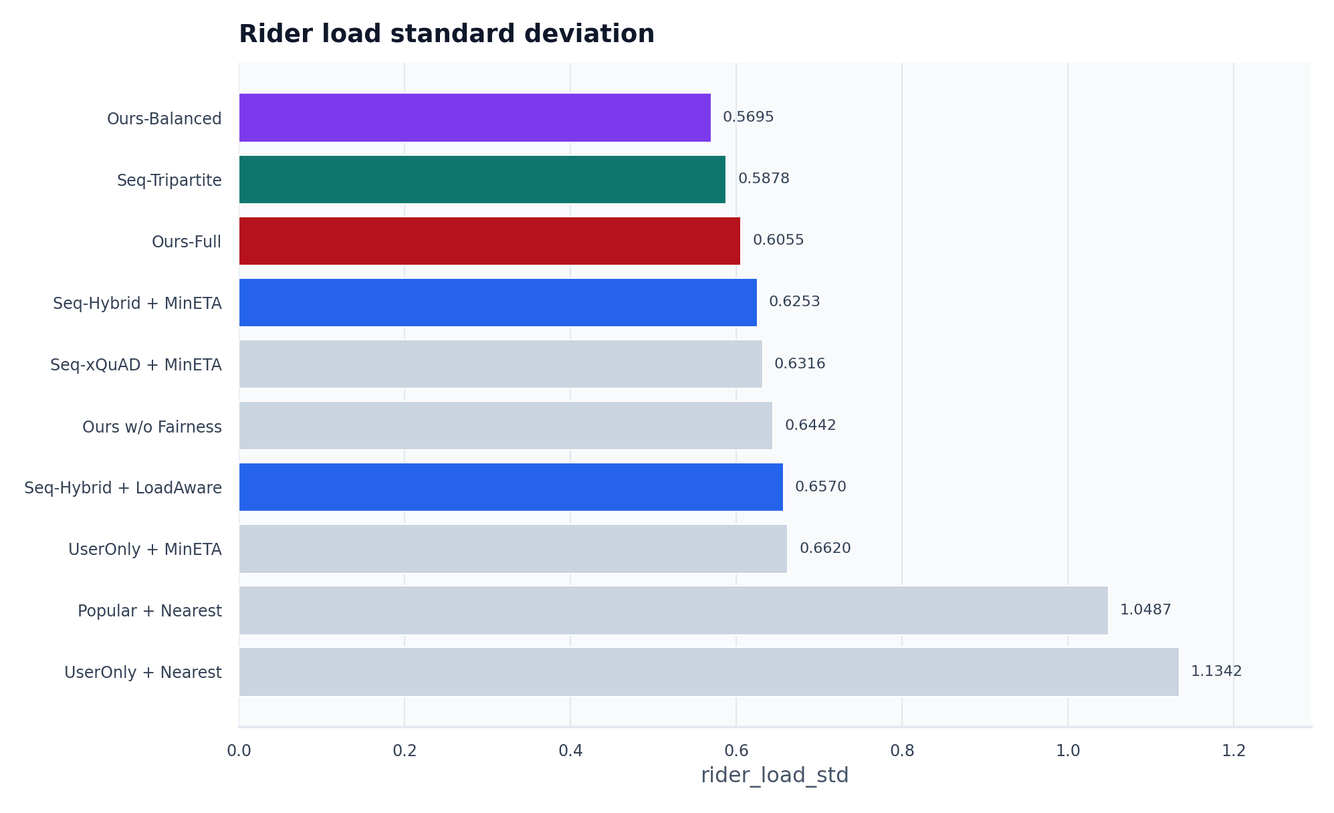
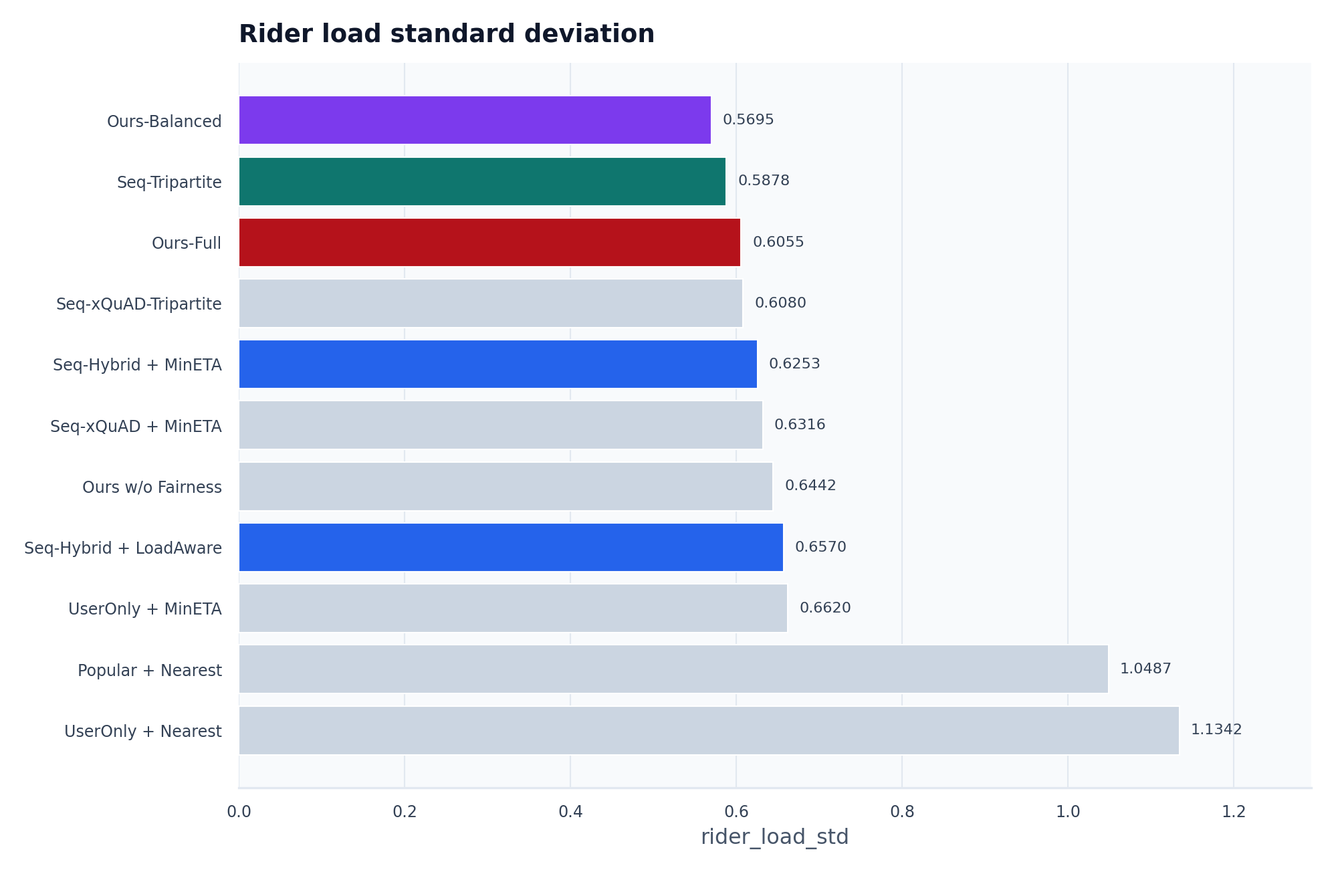
Add xQuAD tripartite bridge

diff --git a/foodflow/report.py b/foodflow/report.py
@@ -102,23 +102,23 @@ def build_report(
 
 ## 3. 方法设计
 
-实现的推荐策略包括 Random、Popular、Repeat、ItemCF、BPR-MF、UserOnly、Seq-Hybrid、Seq-xQuAD、Seq-Tripartite 和 Ours-Full。Random 和 Popular 是基础对照；Repeat 反映外卖复购特征；ItemCF 和 BPR-MF 是传统协同过滤基线；UserOnly 使用品类、复购、价格、时段和商家质量；Seq-Hybrid 借鉴 FPMC/下一篮子推荐和会话推荐思想，加入最近订单时间衰减、复购频率和商家转移概率；Seq-xQuAD 在序列相关性基础上做列表级多样性与长尾曝光重排；Seq-Tripartite 在序列偏好底座上轻量加入公平、ETA 和供给约束；Ours-Full 在 UserOnly 上加入商家曝光公平、ETA 和供给分。
+实现的推荐策略包括 Random、Popular、Repeat、ItemCF、BPR-MF、UserOnly、Seq-Hybrid、Seq-xQuAD、Seq-Tripartite、Seq-xQuAD-Tripartite 和 Ours-Full。Random 和 Popular 是基础对照；Repeat 反映外卖复购特征；ItemCF 和 BPR-MF 是传统协同过滤基线；UserOnly 使用品类、复购、价格、时段和商家质量；Seq-Hybrid 借鉴 FPMC/下一篮子推荐和会话推荐思想，加入最近订单时间衰减、复购频率和商家转移概率；Seq-xQuAD 在序列相关性基础上做列表级多样性与长尾曝光重排；Seq-Tripartite 在序列偏好底座上轻量加入公平、ETA 和供给约束；Seq-xQuAD-Tripartite 把列表级覆盖和三方履约约束合到同一个重排器；Ours-Full 在 UserOnly 上加入商家曝光公平、ETA 和供给分。
 
-为增强“不是只给一个手调模型”的可信度，系统还支持 Ours-Balanced，它提高用户偏好权重，同时保留 ETA 与供给约束，用于观察准确性和履约指标之间的权衡。答辩时可以把 Seq-Hybrid、Seq-xQuAD、Seq-Tripartite、Ours-Balanced 和 Ours-Full 作为一条多目标权衡链路：先用序列复购模型把离线准确性拉高，再用列表级重排扩大覆盖，最后展示三方重排如何换取更好的履约与平台效用。
+为增强“不是只给一个手调模型”的可信度，系统还支持 Ours-Balanced，它提高用户偏好权重，同时保留 ETA 与供给约束，用于观察准确性和履约指标之间的权衡。答辩时可以把 Seq-Hybrid、Seq-xQuAD、Seq-xQuAD-Tripartite 和 Ours-Full 作为一条多目标权衡链路：先用序列复购模型把离线准确性拉高，再用列表级重排扩大覆盖，最后把三方履约约束接进去换取更高平台效用。
 
-三方仿真包括 Popular + Nearest、UserOnly + Nearest、UserOnly + MinETA、Seq-Hybrid + MinETA、Seq-xQuAD + MinETA、Seq-Hybrid + LoadAware、Seq-Tripartite、Ours-Balanced、Ours w/o Fairness 和 Ours-Full。每轮模拟午餐高峰的一批用户请求，推荐列表经过选择模型产生订单，再由最近骑手、最小 ETA 或负载感知策略派单。
+三方仿真包括 Popular + Nearest、UserOnly + Nearest、UserOnly + MinETA、Seq-Hybrid + MinETA、Seq-xQuAD + MinETA、Seq-Hybrid + LoadAware、Seq-Tripartite、Seq-xQuAD-Tripartite、Ours-Balanced、Ours w/o Fairness 和 Ours-Full。每轮模拟午餐高峰的一批用户请求，推荐列表经过选择模型产生订单，再由最近骑手、最小 ETA 或负载感知策略派单。
 
 ## 4. 离线推荐结果
 
 {offline_table}
 
-推荐侧指标使用 Recall@K、NDCG@K、MRR@K 和 HitRate@K；商家侧指标使用 Coverage、Long-tail Exposure 和 Exposure Gini。这样既能看推荐是否命中真实下单，也能看曝光是否过度集中。全量 TRD 结果中，Seq-xQuAD 的 Recall@20、NDCG@20、MRR@20 和 HitRate@20 最高，说明外卖推荐既受最近订单和复购序列影响，也能从列表级多样性重排中获益；Seq-Tripartite 的 NDCG@20 和 HitRate@20 高于 UserOnly，同时保持更低曝光 Gini；Ours-Balanced 和 Ours-Full 离线准确率较低，但引入了履约和供给约束，因此后续需要结合仿真指标判断。
+推荐侧指标使用 Recall@K、NDCG@K、MRR@K 和 HitRate@K；商家侧指标使用 Coverage、Long-tail Exposure 和 Exposure Gini。这样既能看推荐是否命中真实下单，也能看曝光是否过度集中。全量 TRD 结果中，Seq-xQuAD 的 Recall@20、NDCG@20、MRR@20 和 HitRate@20 最高，说明外卖推荐既受最近订单和复购序列影响，也能从列表级多样性重排中获益；Seq-xQuAD-Tripartite 的离线准确性低于纯 Seq-xQuAD，但 Exposure Gini 更低，并且 NDCG@20 仍略高于 UserOnly；Ours-Balanced 和 Ours-Full 离线准确率较低，但引入了履约和供给约束，因此后续需要结合仿真指标判断。
 
 ## 5. 动态履约仿真结果
 
 {simulation_table}
 
-履约侧指标包括完成订单数、平均 ETA、超时率、骑手负载标准差和平台综合效用。Ours-Full 的目标不是所有单项指标都最大，而是在准确性、公平性和履约可行性之间取得更适合外卖平台的折中。全量 TRD 仿真中，Seq-xQuAD 提升了离线推荐准确性，但进入派单后平台效用不一定最高；Seq-Tripartite 在序列准确性和履约约束之间取得折中；Ours-Full 则取得最高平台效用和更低超时率，说明推荐策略进入履约链路后不能只看离线命中。
+履约侧指标包括完成订单数、平均 ETA、超时率、骑手负载标准差和平台综合效用。多目标推荐的目标不是所有单项指标都最大，而是在准确性、公平性和履约可行性之间取得更适合外卖平台的折中。全量 TRD 仿真中，Seq-xQuAD 提升了离线推荐准确性，但进入派单后平台效用不一定最高；Seq-xQuAD-Tripartite 取得当前最高平台效用、最低平均 ETA 和最低超时率，说明把列表级重排与三方履约约束结合，比单独追求离线命中更适合外卖平台场景。
 
 ## 6. 图表展示
 
@@ -126,7 +126,7 @@ def build_report(
 
 ## 7. 结论与局限
 
-FoodFlow 的答辩故事可以概括为三步：第一，公开外卖订单数据上的推荐实验证明模型不是随机的，并用 Seq-xQuAD 把离线排序指标继续推高；第二，显式加入商家曝光、长尾曝光和 Gini 指标，让推荐不再只围绕用户命中率讨论；第三，履约感知重排和负载感知派单能降低 ETA、超时风险并提升平台效用，从而体现多主体平台的系统级优化。
+FoodFlow 的答辩故事可以概括为三步：第一，公开外卖订单数据上的推荐实验证明模型不是随机的，并用 Seq-xQuAD 把离线排序指标继续推高；第二，显式加入商家曝光、长尾曝光和 Gini 指标，让推荐不再只围绕用户命中率讨论；第三，Seq-xQuAD-Tripartite 和负载感知派单能降低 ETA、超时风险并提升平台效用，从而体现多主体平台的系统级优化。
 
 局限是骑手数据来自合成仿真，不能替代工业级派单数据；BPR-MF 是轻量实现，未追求大规模深度模型最优性能；平台效用权重是课程项目中的解释性设置，需要结合业务偏好做敏感性分析。
 """

diff --git a/foodflow/recommenders.py b/foodflow/recommenders.py
@@ -444,6 +444,68 @@ class SeqXQuadRecommender(SequentialHybridRecommender):
         return recs, {m: scores.get(m, float(self.popular.get(m, 0))) for m in recs}
 
 
+class SeqXQuadTripartiteRecommender(SeqTripartiteRecommender):
+    name = "Seq-xQuAD-Tripartite"
+
+    def __init__(
+        self,
+        user_weight: float = 0.93,
+        fairness_weight: float = 0.025,
+        eta_weight: float = 0.03,
+        supply_weight: float = 0.015,
+        diversity_weight: float = 0.12,
+        tail_weight: float = 0.04,
+    ):
+        super().__init__(user_weight, fairness_weight, eta_weight, supply_weight)
+        self.diversity_weight = diversity_weight
+        self.tail_weight = tail_weight
+
+    def _rerank_xquad(self, scores: dict[str, float], k: int) -> list[str]:
+        if not scores:
+            return []
+        candidates = sorted(scores, key=scores.get, reverse=True)[:80]
+        min_score = min(scores[m] for m in candidates)
+        max_score = max(scores[m] for m in candidates)
+        scale = max(max_score - min_score, 1e-9)
+        relevance_weight = max(1.0 - self.diversity_weight - self.tail_weight, 0.0)
+        selected: list[str] = []
+        covered_categories: set[str] = set()
+        while len(selected) < k and len(selected) < len(candidates):
+            best_item = None
+            best_score = -float("inf")
+            for merchant_id in candidates:
+                if merchant_id in selected:
+                    continue
+                merchant = self.merchants.loc[merchant_id]
+                category = str(merchant.get("primary_first_tag_id", "unknown"))
+                category_gain = 0.0 if category in covered_categories else 1.0
+                order_count = float(merchant.get("order_count", 0) or 0)
+                tail_gain = 1.0 / (1.0 + np.log1p(order_count))
+                relevance = (scores[merchant_id] - min_score) / scale
+                value = (
+                    relevance_weight * relevance
+                    + self.diversity_weight * category_gain
+                    + self.tail_weight * tail_gain
+                )
+                if value > best_score:
+                    best_item = merchant_id
+                    best_score = value
+            if best_item is None:
+                break
+            selected.append(best_item)
+            covered_categories.add(str(self.merchants.loc[best_item].get("primary_first_tag_id", "unknown")))
+        return selected
+
+    def recommend_for_user(self, user_id: str, k: int, period: str = "lunch") -> tuple[list[str], dict[str, float]]:
+        scores = {
+            merchant_id: self.component_scores(user_id, merchant_id, period)["final_score"]
+            for merchant_id in self._sequential_candidates(user_id)
+        }
+        recs = self._rerank_xquad(scores, k)
+        recs = self._remove_seen_and_backfill(user_id, recs, k)
+        return recs, {m: scores.get(m, float(self.popular.get(m, 0))) for m in recs}
+
+
 class TripartiteRerankRecommender(UserOnlyRecommender):
     name = "Tripartite-Rerank"
 
@@ -532,6 +594,7 @@ def build_recommenders(seed: int = 42) -> list[BaseRecommender]:
         SequentialHybridRecommender(),
         SeqXQuadRecommender(),
         SeqTripartiteRecommender(),
+        SeqXQuadTripartiteRecommender(),
         OursBalancedRecommender(),
         OursFullRecommender(),
     ]

diff --git a/app.py b/app.py
@@ -24,6 +24,7 @@ from foodflow.recommenders import (
     OursFullRecommender,
     SeqTripartiteRecommender,
     SeqXQuadRecommender,
+    SeqXQuadTripartiteRecommender,
     SequentialHybridRecommender,
     UserOnlyRecommender,
 )
@@ -128,6 +129,7 @@ def load_model(strategy: str, data_key: str, _data: PreparedData) -> object:
         "Seq-Hybrid": SequentialHybridRecommender,
         "Seq-xQuAD": SeqXQuadRecommender,
         "Seq-Tripartite": SeqTripartiteRecommender,
+        "Seq-xQuAD-Tripartite": SeqXQuadTripartiteRecommender,
         "Ours-Balanced": OursBalancedRecommender,
         "Ours-Full": OursFullRecommender,
     }
@@ -193,7 +195,15 @@ with st.sidebar:
     period = period_map[period_label]
     strategy_name = st.selectbox(
         "推荐策略",
-        ["Seq-xQuAD", "Seq-Hybrid", "Seq-Tripartite", "Ours-Full", "Ours-Balanced", "UserOnly"],
+        [
+            "Seq-xQuAD",
+            "Seq-xQuAD-Tripartite",
+            "Seq-Hybrid",
+            "Seq-Tripartite",
+            "Ours-Full",
+            "Ours-Balanced",
+            "UserOnly",
+        ],
         index=0,
     )
     top_k = st.slider("推荐数量", min_value=5, max_value=12, value=10, step=1)
@@ -267,7 +277,15 @@ with tab_case:
     run_strategy_compare = st.checkbox("计算三策略对比", value=False)
     if run_strategy_compare:
         strategy_rows = []
-        for name in ["UserOnly", "Seq-Hybrid", "Seq-xQuAD", "Seq-Tripartite", "Ours-Balanced", "Ours-Full"]:
+        for name in [
+            "UserOnly",
+            "Seq-Hybrid",
+            "Seq-xQuAD",
+            "Seq-Tripartite",
+            "Seq-xQuAD-Tripartite",
+            "Ours-Balanced",
+            "Ours-Full",
+        ]:
             with st.spinner(f"加载 {name} 并生成对比..."):
                 candidate_model = load_model(name, model_data_key, interactive_data)
                 candidate_recs = candidate_model.recommend([user_id], top_k, {user_id: period}).recommendations[user_id]
@@ -533,6 +551,10 @@ with tab_peak:
                     "Seq-Hybrid + MinETA": (load_model("Seq-Hybrid", model_data_key, interactive_data), "min_eta"),
                     "Seq-xQuAD + MinETA": (load_model("Seq-xQuAD", model_data_key, interactive_data), "min_eta"),
                     "Seq-Tripartite": (load_model("Seq-Tripartite", model_data_key, interactive_data), "load_aware"),
+                    "Seq-xQuAD-Tripartite": (
+                        load_model("Seq-xQuAD-Tripartite", model_data_key, interactive_data),
+                        "load_aware",
+                    ),
                     "Ours-Balanced": (load_model("Ours-Balanced", model_data_key, interactive_data), "load_aware"),
                     "Ours-Full": (load_model("Ours-Full", model_data_key, interactive_data), "load_aware"),
                 },

diff --git a/tests/test_demo_support.py b/tests/test_demo_support.py
@@ -10,7 +10,7 @@ from foodflow.demo_support import (
 )
 from foodflow.mock_data import make_mock_trd
 from foodflow.preprocess import preprocess
-from foodflow.recommenders import OursFullRecommender, UserOnlyRecommender
+from foodflow.recommenders import OursFullRecommender, SeqXQuadTripartiteRecommender, UserOnlyRecommender
 from foodflow.rider_sim import generate_riders
 
 
@@ -38,17 +38,23 @@ def test_demo_recommendation_and_rider_frames(tmp_path: Path):
 
     model = OursFullRecommender().fit(data)
     user_model = UserOnlyRecommender().fit(data)
+    bridge_model = SeqXQuadTripartiteRecommender().fit(data)
     user_id = data.user_ids[0]
     recs = model.recommend([user_id], 5, {user_id: "lunch"}).recommendations[user_id]
     rec_frame = build_recommendation_frame(data, model, user_id, recs, "lunch")
     user_recs = user_model.recommend([user_id], 5, {user_id: "lunch"}).recommendations[user_id]
     user_frame = build_recommendation_frame(data, user_model, user_id, user_recs, "lunch")
+    bridge_recs = bridge_model.recommend([user_id], 5, {user_id: "lunch"}).recommendations[user_id]
+    bridge_frame = build_recommendation_frame(data, bridge_model, user_id, bridge_recs, "lunch")
 
     assert len(rec_frame) == 5
     assert {"merchant_name", "final_score", "reason", "eta_minutes"}.issubset(rec_frame.columns)
     assert len(user_frame) == 5
     assert user_frame["fairness_contrib"].eq(0).all()
     assert user_frame["eta_contrib"].eq(0).all()
+    assert len(bridge_frame) == 5
+    assert bridge_frame["fairness_contrib"].gt(0).any()
+    assert bridge_frame["eta_contrib"].gt(0).any()
 
     users = data.users.set_index("user_id", drop=False)
     merchants = data.merchants.set_index("wm_poi_id", drop=False)

diff --git a/foodflow/simulator.py b/foodflow/simulator.py
@@ -15,6 +15,7 @@ from .recommenders import (
     PopularRecommender,
     SeqTripartiteRecommender,
     SeqXQuadRecommender,
+    SeqXQuadTripartiteRecommender,
     SequentialHybridRecommender,
     UserOnlyRecommender,
 )
@@ -37,6 +38,7 @@ DEFAULT_POLICIES = [
     SimulationPolicy("Seq-xQuAD + MinETA", "seq_xquad", "min_eta"),
     SimulationPolicy("Seq-Hybrid + LoadAware", "seq_hybrid", "load_aware"),
     SimulationPolicy("Seq-Tripartite", "seq_tripartite", "load_aware", fairness=True),
+    SimulationPolicy("Seq-xQuAD-Tripartite", "seq_xquad_tripartite", "load_aware", fairness=True),
     SimulationPolicy("Ours-Balanced", "ours_balanced", "load_aware", fairness=True),
     SimulationPolicy("Ours w/o Fairness", "useronly", "load_aware"),
     SimulationPolicy("Ours-Full", "ours", "load_aware", fairness=True),
@@ -54,6 +56,8 @@ def _select_recommender(data: PreparedData, name: str, seed: int):
         return SeqXQuadRecommender().fit(data)
     if name == "seq_tripartite":
         return SeqTripartiteRecommender().fit(data)
+    if name == "seq_xquad_tripartite":
+        return SeqXQuadTripartiteRecommender().fit(data)
     if name == "ours":
         return OursFullRecommender().fit(data)
     if name == "ours_balanced":

diff --git a/report/实验报告.md b/report/实验报告.md
@@ -27,29 +27,30 @@
 
 ## 3. 方法设计
 
-实现的推荐策略包括 Random、Popular、Repeat、ItemCF、BPR-MF、UserOnly、Seq-Hybrid、Seq-xQuAD、Seq-Tripartite 和 Ours-Full。Random 和 Popular 是基础对照；Repeat 反映外卖复购特征；ItemCF 和 BPR-MF 是传统协同过滤基线；UserOnly 使用品类、复购、价格、时段和商家质量；Seq-Hybrid 借鉴 FPMC/下一篮子推荐和会话推荐思想，加入最近订单时间衰减、复购频率和商家转移概率；Seq-xQuAD 在序列相关性基础上做列表级多样性与长尾曝光重排；Seq-Tripartite 在序列偏好底座上轻量加入公平、ETA 和供给约束；Ours-Full 在 UserOnly 上加入商家曝光公平、ETA 和供给分。
+实现的推荐策略包括 Random、Popular、Repeat、ItemCF、BPR-MF、UserOnly、Seq-Hybrid、Seq-xQuAD、Seq-Tripartite、Seq-xQuAD-Tripartite 和 Ours-Full。Random 和 Popular 是基础对照；Repeat 反映外卖复购特征；ItemCF 和 BPR-MF 是传统协同过滤基线；UserOnly 使用品类、复购、价格、时段和商家质量；Seq-Hybrid 借鉴 FPMC/下一篮子推荐和会话推荐思想，加入最近订单时间衰减、复购频率和商家转移概率；Seq-xQuAD 在序列相关性基础上做列表级多样性与长尾曝光重排；Seq-Tripartite 在序列偏好底座上轻量加入公平、ETA 和供给约束；Seq-xQuAD-Tripartite 把列表级覆盖和三方履约约束合到同一个重排器；Ours-Full 在 UserOnly 上加入商家曝光公平、ETA 和供给分。
 
-为增强“不是只给一个手调模型”的可信度，系统还支持 Ours-Balanced，它提高用户偏好权重，同时保留 ETA 与供给约束，用于观察准确性和履约指标之间的权衡。答辩时可以把 Seq-Hybrid、Seq-xQuAD、Seq-Tripartite、Ours-Balanced 和 Ours-Full 作为一条多目标权衡链路：先用序列复购模型把离线准确性拉高，再用列表级重排扩大覆盖，最后展示三方重排如何换取更好的履约与平台效用。
+为增强“不是只给一个手调模型”的可信度，系统还支持 Ours-Balanced，它提高用户偏好权重，同时保留 ETA 与供给约束，用于观察准确性和履约指标之间的权衡。答辩时可以把 Seq-Hybrid、Seq-xQuAD、Seq-xQuAD-Tripartite 和 Ours-Full 作为一条多目标权衡链路：先用序列复购模型把离线准确性拉高，再用列表级重排扩大覆盖，最后把三方履约约束接进去换取更高平台效用。
 
-三方仿真包括 Popular + Nearest、UserOnly + Nearest、UserOnly + MinETA、Seq-Hybrid + MinETA、Seq-xQuAD + MinETA、Seq-Hybrid + LoadAware、Seq-Tripartite、Ours-Balanced、Ours w/o Fairness 和 Ours-Full。每轮模拟午餐高峰的一批用户请求，推荐列表经过选择模型产生订单，再由最近骑手、最小 ETA 或负载感知策略派单。
+三方仿真包括 Popular + Nearest、UserOnly + Nearest、UserOnly + MinETA、Seq-Hybrid + MinETA、Seq-xQuAD + MinETA、Seq-Hybrid + LoadAware、Seq-Tripartite、Seq-xQuAD-Tripartite、Ours-Balanced、Ours w/o Fairness 和 Ours-Full。每轮模拟午餐高峰的一批用户请求，推荐列表经过选择模型产生订单，再由最近骑手、最小 ETA 或负载感知策略派单。
 
 ## 4. 离线推荐结果
 
-| model          |   Recall@10 |   NDCG@10 |   MRR@10 |   HitRate@10 |   Recall@20 |   NDCG@20 |   MRR@20 |   HitRate@20 |   Coverage@20 |   ExposureGini |   LongTailExposure@20 |
-|:---------------|------------:|----------:|---------:|-------------:|------------:|----------:|---------:|-------------:|--------------:|---------------:|----------------------:|
-| BPR-MF         |      0.1269 |    0.0968 |   0.1108 |       0.1967 |      0.162  |    0.1068 |   0.1141 |       0.2433 |        0.135  |         0.9516 |                0.0592 |
-| ItemCF         |      0.0794 |    0.0454 |   0.0528 |       0.1567 |      0.1393 |    0.0631 |   0.0587 |       0.2433 |        0.5188 |         0.782  |                0.6467 |
-| Ours-Balanced  |      0.3891 |    0.3285 |   0.3709 |       0.54   |      0.4097 |    0.3346 |   0.3724 |       0.5633 |        0.2844 |         0.8769 |                0.4216 |
-| Ours-Full      |      0.3836 |    0.3255 |   0.3688 |       0.5333 |      0.4055 |    0.332  |   0.3705 |       0.5633 |        0.2811 |         0.889  |                0.4289 |
-| Popular        |      0.0219 |    0.0135 |   0.018  |       0.0467 |      0.047  |    0.021  |   0.0209 |       0.09   |        0.0062 |         0.9952 |                0      |
-| Random         |      0.0163 |    0.0094 |   0.0099 |       0.0367 |      0.0297 |    0.0137 |   0.0116 |       0.0633 |        0.123  |         0.8968 |                0      |
-| Repeat         |      0.398  |    0.3318 |   0.3696 |       0.5467 |      0.4062 |    0.3348 |   0.3701 |       0.5533 |        0.2571 |         0.9369 |                0.4701 |
-| Seq-Hybrid     |      0.4056 |    0.339  |   0.3785 |       0.56   |      0.4441 |    0.3513 |   0.3809 |       0.5933 |        0.274  |         0.9198 |                0.4411 |
-| Seq-Tripartite |      0.4054 |    0.3403 |   0.3836 |       0.57   |      0.4266 |    0.347  |   0.3844 |       0.5833 |        0.2841 |         0.8848 |                0.4275 |
-| Seq-xQuAD      |      0.4118 |    0.343  |   0.3843 |       0.57   |      0.4447 |    0.3538 |   0.3862 |       0.5967 |        0.2786 |         0.9141 |                0.4338 |
-| UserOnly       |      0.3988 |    0.3336 |   0.373  |       0.5467 |      0.4287 |    0.3423 |   0.3747 |       0.5733 |        0.2841 |         0.8857 |                0.4242 |
+| model                |   Recall@10 |   NDCG@10 |   MRR@10 |   HitRate@10 |   Recall@20 |   NDCG@20 |   MRR@20 |   HitRate@20 |   Coverage@20 |   ExposureGini |   LongTailExposure@20 |
+|:---------------------|------------:|----------:|---------:|-------------:|------------:|----------:|---------:|-------------:|--------------:|---------------:|----------------------:|
+| BPR-MF               |      0.1269 |    0.0968 |   0.1108 |       0.1967 |      0.162  |    0.1068 |   0.1141 |       0.2433 |        0.135  |         0.9516 |                0.0592 |
+| ItemCF               |      0.0794 |    0.0454 |   0.0528 |       0.1567 |      0.1393 |    0.0631 |   0.0587 |       0.2433 |        0.5188 |         0.782  |                0.6467 |
+| Ours-Balanced        |      0.3891 |    0.3285 |   0.3709 |       0.54   |      0.4097 |    0.3346 |   0.3724 |       0.5633 |        0.2844 |         0.8769 |                0.4216 |
+| Ours-Full            |      0.3836 |    0.3255 |   0.3688 |       0.5333 |      0.4055 |    0.332  |   0.3705 |       0.5633 |        0.2811 |         0.889  |                0.4289 |
+| Popular              |      0.0219 |    0.0135 |   0.018  |       0.0467 |      0.047  |    0.021  |   0.0209 |       0.09   |        0.0062 |         0.9952 |                0      |
+| Random               |      0.0163 |    0.0094 |   0.0099 |       0.0367 |      0.0297 |    0.0137 |   0.0116 |       0.0633 |        0.123  |         0.8968 |                0      |
+| Repeat               |      0.398  |    0.3318 |   0.3696 |       0.5467 |      0.4062 |    0.3348 |   0.3701 |       0.5533 |        0.2571 |         0.9369 |                0.4701 |
+| Seq-Hybrid           |      0.4056 |    0.339  |   0.3785 |       0.56   |      0.4441 |    0.3513 |   0.3809 |       0.5933 |        0.274  |         0.9198 |                0.4411 |
+| Seq-Tripartite       |      0.4054 |    0.3403 |   0.3836 |       0.57   |      0.4266 |    0.347  |   0.3844 |       0.5833 |        0.2841 |         0.8848 |                0.4275 |
+| Seq-xQuAD            |      0.4118 |    0.343  |   0.3843 |       0.57   |      0.4447 |    0.3538 |   0.3862 |       0.5967 |        0.2786 |         0.9141 |                0.4338 |
+| Seq-xQuAD-Tripartite |      0.3964 |    0.3372 |   0.3828 |       0.5567 |      0.418  |    0.344  |   0.3839 |       0.5733 |        0.2847 |         0.8882 |                0.4266 |
+| UserOnly             |      0.3988 |    0.3336 |   0.373  |       0.5467 |      0.4287 |    0.3423 |   0.3747 |       0.5733 |        0.2841 |         0.8857 |                0.4242 |
 
-推荐侧指标使用 Recall@K、NDCG@K、MRR@K 和 HitRate@K；商家侧指标使用 Coverage、Long-tail Exposure 和 Exposure Gini。这样既能看推荐是否命中真实下单，也能看曝光是否过度集中。全量 TRD 结果中，Seq-xQuAD 的 Recall@20、NDCG@20、MRR@20 和 HitRate@20 最高，说明外卖推荐既受最近订单和复购序列影响，也能从列表级多样性重排中获益；Seq-Tripartite 的 NDCG@20 和 HitRate@20 高于 UserOnly，同时保持更低曝光 Gini；Ours-Balanced 和 Ours-Full 离线准确率较低，但引入了履约和供给约束，因此后续需要结合仿真指标判断。
+推荐侧指标使用 Recall@K、NDCG@K、MRR@K 和 HitRate@K；商家侧指标使用 Coverage、Long-tail Exposure 和 Exposure Gini。这样既能看推荐是否命中真实下单，也能看曝光是否过度集中。全量 TRD 结果中，Seq-xQuAD 的 Recall@20、NDCG@20、MRR@20 和 HitRate@20 最高，说明外卖推荐既受最近订单和复购序列影响，也能从列表级多样性重排中获益；Seq-xQuAD-Tripartite 的离线准确性低于纯 Seq-xQuAD，但 Exposure Gini 更低，并且 NDCG@20 仍略高于 UserOnly；Ours-Balanced 和 Ours-Full 离线准确率较低，但引入了履约和供给约束，因此后续需要结合仿真指标判断。
 
 ## 5. 动态履约仿真结果
 
@@ -62,11 +63,12 @@
 | Seq-xQuAD + MinETA     |                104 |            104 |                 1 |   53.6142 |         0.7596 |         0.2404 |           0.6316 |          0.7287 |                   0.9914 |              0.8308 |             0.4582 |
 | Seq-Hybrid + LoadAware |                 95 |             95 |                 1 |   56.1323 |         0.6421 |         0.3579 |           0.657  |          0.8298 |                   0.9927 |              0.8032 |             0.4763 |
 | Seq-Tripartite         |                 88 |             88 |                 1 |   52.1499 |         0.6364 |         0.3636 |           0.5878 |          0.8016 |                   0.9883 |              0.8625 |             0.4963 |
+| Seq-xQuAD-Tripartite   |                 94 |             94 |                 1 |   50.3348 |         0.5319 |         0.4681 |           0.608  |          0.7762 |                   0.9892 |              0.8479 |             0.5264 |
 | Ours-Balanced          |                 93 |             93 |                 1 |   50.9764 |         0.6344 |         0.3656 |           0.5695 |          0.7349 |                   0.9892 |              0.7989 |             0.4875 |
 | Ours w/o Fairness      |                 95 |             95 |                 1 |   56.1694 |         0.7684 |         0.2316 |           0.6442 |          0.8137 |                   0.9912 |              0.7858 |             0.4359 |
 | Ours-Full              |                 91 |             91 |                 1 |   50.8471 |         0.5714 |         0.4286 |           0.6055 |          0.7984 |                   0.9896 |              0.8973 |             0.5246 |
 
-履约侧指标包括完成订单数、平均 ETA、超时率、骑手负载标准差和平台综合效用。Ours-Full 的目标不是所有单项指标都最大，而是在准确性、公平性和履约可行性之间取得更适合外卖平台的折中。全量 TRD 仿真中，Seq-xQuAD 提升了离线推荐准确性，但进入派单后平台效用不一定最高；Seq-Tripartite 在序列准确性和履约约束之间取得折中；Ours-Full 则取得最高平台效用和更低超时率，说明推荐策略进入履约链路后不能只看离线命中。
+履约侧指标包括完成订单数、平均 ETA、超时率、骑手负载标准差和平台综合效用。多目标推荐的目标不是所有单项指标都最大，而是在准确性、公平性和履约可行性之间取得更适合外卖平台的折中。全量 TRD 仿真中，Seq-xQuAD 提升了离线推荐准确性，但进入派单后平台效用不一定最高；Seq-xQuAD-Tripartite 取得当前最高平台效用、最低平均 ETA 和最低超时率，说明把列表级重排与三方履约约束结合，比单独追求离线命中更适合外卖平台场景。
 
 ## 6. 图表展示
 
@@ -98,6 +100,6 @@
 
 ## 7. 结论与局限
 
-FoodFlow 的答辩故事可以概括为三步：第一，公开外卖订单数据上的推荐实验证明模型不是随机的，并用 Seq-xQuAD 把离线排序指标继续推高；第二，显式加入商家曝光、长尾曝光和 Gini 指标，让推荐不再只围绕用户命中率讨论；第三，履约感知重排和负载感知派单能降低 ETA、超时风险并提升平台效用，从而体现多主体平台的系统级优化。
+FoodFlow 的答辩故事可以概括为三步：第一，公开外卖订单数据上的推荐实验证明模型不是随机的，并用 Seq-xQuAD 把离线排序指标继续推高；第二，显式加入商家曝光、长尾曝光和 Gini 指标，让推荐不再只围绕用户命中率讨论；第三，Seq-xQuAD-Tripartite 和负载感知派单能降低 ETA、超时风险并提升平台效用，从而体现多主体平台的系统级优化。
 
 局限是骑手数据来自合成仿真，不能替代工业级派单数据；BPR-MF 是轻量实现，未追求大规模深度模型最优性能；平台效用权重是课程项目中的解释性设置，需要结合业务偏好做敏感性分析。

diff --git a/README.md b/README.md
@@ -6,7 +6,7 @@
 
 ## 项目亮点
 
-- 用户侧推荐：实现 Random、Popular、Repeat、ItemCF、BPR-MF、UserOnly、Seq-Hybrid、Seq-xQuAD、Seq-Tripartite、Ours-Full 等策略。
+- 用户侧推荐：实现 Random、Popular、Repeat、ItemCF、BPR-MF、UserOnly、Seq-Hybrid、Seq-xQuAD、Seq-Tripartite、Seq-xQuAD-Tripartite、Ours-Full 等策略。
 - 商家侧公平：在重排中引入商家曝光公平、长尾曝光与 Exposure Gini 等指标。
 - 骑手侧履约：模拟订单-骑手匹配，比较最近骑手、最小 ETA、负载感知三类策略。
 - 动态仿真：模拟午餐高峰多时间步请求，持续更新骑手状态和订单履约结果。
@@ -40,7 +40,7 @@ TRD 数据下载与清洗
   -> 指标、图表、报告与 demo
 ```
 
-本轮新增 `Seq-Hybrid`，借鉴 FPMC/下一篮子推荐和会话推荐思想，把外卖复购、最近订单时间衰减和商家转移概率加入排序，用于提升离线推荐准确性。`Seq-xQuAD` 进一步借鉴 xQuAD/MMR 的列表级重排思想，在序列相关性之外加入品类覆盖和长尾曝光增益，是当前离线指标最强策略。`Seq-Tripartite` 则在序列偏好底座上轻量加入公平、ETA 和供给约束，用于展示“更准的偏好模型也可以接入三方重排”。
+本轮新增 `Seq-Hybrid`，借鉴 FPMC/下一篮子推荐和会话推荐思想，把外卖复购、最近订单时间衰减和商家转移概率加入排序，用于提升离线推荐准确性。`Seq-xQuAD` 进一步借鉴 xQuAD/MMR 的列表级重排思想，在序列相关性之外加入品类覆盖和长尾曝光增益，是当前离线指标最强策略。`Seq-xQuAD-Tripartite` 则把列表级覆盖、商家公平、ETA 和供给约束接到同一个重排器中，是当前仿真平台效用最强策略。
 
 Ours-Full 推荐分数采用可解释加权重排：
 
@@ -184,7 +184,7 @@ make STREAMLIT=".venv/bin/streamlit" demo
 make STREAMLIT_FLAGS="--server.port 8502" demo
 ```
 
-demo 默认展示用户 `8`，也提供复购活跃型、高消费型、价格敏感型等快速案例；侧边栏可手动输入其它用户 ID，并在 `Seq-xQuAD`、`Seq-Hybrid`、`Seq-Tripartite`、`UserOnly`、`Ours-Balanced`、`Ours-Full` 之间切换策略。当前界面包含推荐商家卡片、推荐理由筛选、用户品类偏好、策略对比、分数组成、同一订单的骑手策略 ETA 对比、用户-商家-骑手链路图、骑手供给云与履约路径、午餐高峰热力图回放和实验指标看板。
+demo 默认展示用户 `8`，也提供复购活跃型、高消费型、价格敏感型等快速案例；侧边栏可手动输入其它用户 ID，并在 `Seq-xQuAD`、`Seq-xQuAD-Tripartite`、`Seq-Hybrid`、`Seq-Tripartite`、`UserOnly`、`Ours-Balanced`、`Ours-Full` 之间切换策略。当前界面包含推荐商家卡片、推荐理由筛选、用户品类偏好、策略对比、分数组成、同一订单的骑手策略 ETA 对比、用户-商家-骑手链路图、骑手供给云与履约路径、午餐高峰热力图回放和实验指标看板。
 
 ## 主要输出
 
@@ -208,9 +208,9 @@ python3 scripts/prepare_notebooklm_pack.py
 
 当前提交的结果已经使用完整 TRD `orders_train.txt`，数据审计显示原始训练订单 `1,068,495` 条，处理后训练订单 `1,068,495` 条，训练订单使用比例 `1.0000`。
 
-离线推荐中，`Seq-xQuAD` 的 Recall@20 最高，为 `0.4447`，NDCG@20 为 `0.3538`，HitRate@20 为 `0.5967`；相比原先最强的 `UserOnly`，Recall@20 从 `0.4287` 提升到 `0.4447`。`Seq-Tripartite` 的 NDCG@20 为 `0.3470`，HitRate@20 为 `0.5833`，高于 UserOnly，同时保留轻量三方约束。`Ours-Full` 的 Recall@20 为 `0.4055`，离线准确率不是最高，但平台效用最好。
+离线推荐中，`Seq-xQuAD` 的 Recall@20 最高，为 `0.4447`，NDCG@20 为 `0.3538`，HitRate@20 为 `0.5967`；相比原先最强的 `UserOnly`，Recall@20 从 `0.4287` 提升到 `0.4447`。`Seq-xQuAD-Tripartite` 的 NDCG@20 为 `0.3440`，Exposure Gini 为 `0.8882`，低于纯 `Seq-xQuAD`，说明接入三方约束会牺牲一部分离线命中，但能改善后续履约表现。
 
-动态履约仿真中，`Ours-Full` 取得最低平均 ETA、最低超时率和最高平台综合效用：
+动态履约仿真中，`Seq-xQuAD-Tripartite` 取得最低平均 ETA、最低超时率和最高平台综合效用：
 
 | 策略 | Avg ETA | Timeout Rate | Platform Utility |
 |---|---:|---:|---:|
@@ -219,10 +219,11 @@ python3 scripts/prepare_notebooklm_pack.py
 | Seq-Hybrid + MinETA | 52.49 | 0.6667 | 0.4851 |
 | Seq-xQuAD + MinETA | 53.61 | 0.7596 | 0.4582 |
 | Seq-Tripartite | 52.15 | 0.6364 | 0.4963 |
+| Seq-xQuAD-Tripartite | 50.33 | 0.5319 | 0.5264 |
 | Ours-Balanced | 50.98 | 0.6344 | 0.4875 |
 | Ours-Full | 50.85 | 0.5714 | 0.5246 |
 
-结论不是“单一模型在所有指标上最优”，而是：`Seq-xQuAD` 通过序列复购和列表级重排取得最强离线推荐准确性；`Seq-Tripartite` 证明高准确偏好模型可以接入三方约束；`Ours-Full` 牺牲一部分离线准确性，换取更低超时率和更高平台综合效用，更符合外卖平台的多主体优化目标。
+结论不是“单一模型在所有指标上最优”，而是：`Seq-xQuAD` 通过序列复购和列表级重排取得最强离线推荐准确性；`Seq-xQuAD-Tripartite` 牺牲一部分离线准确性，换取更低超时率和更高平台综合效用，更符合外卖平台的多主体优化目标。
 
 ## 图表示例
 
